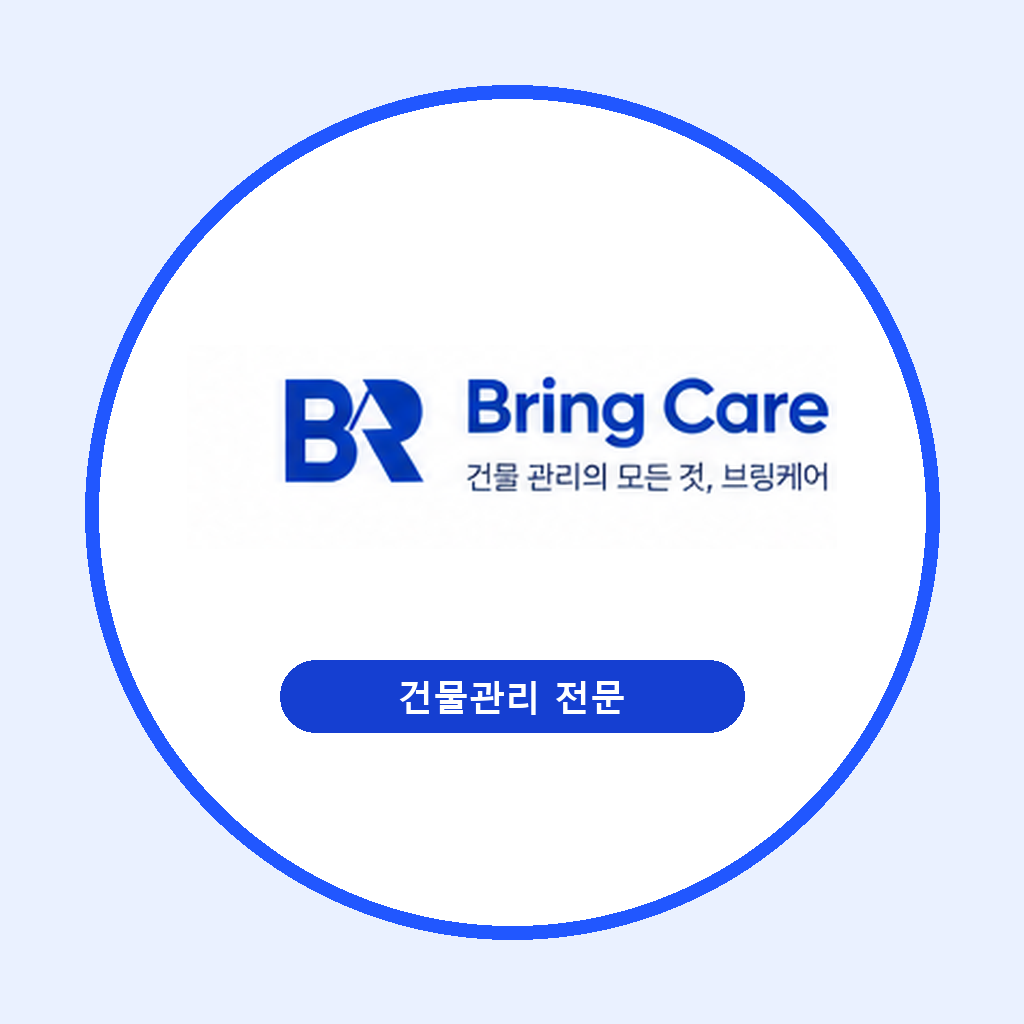
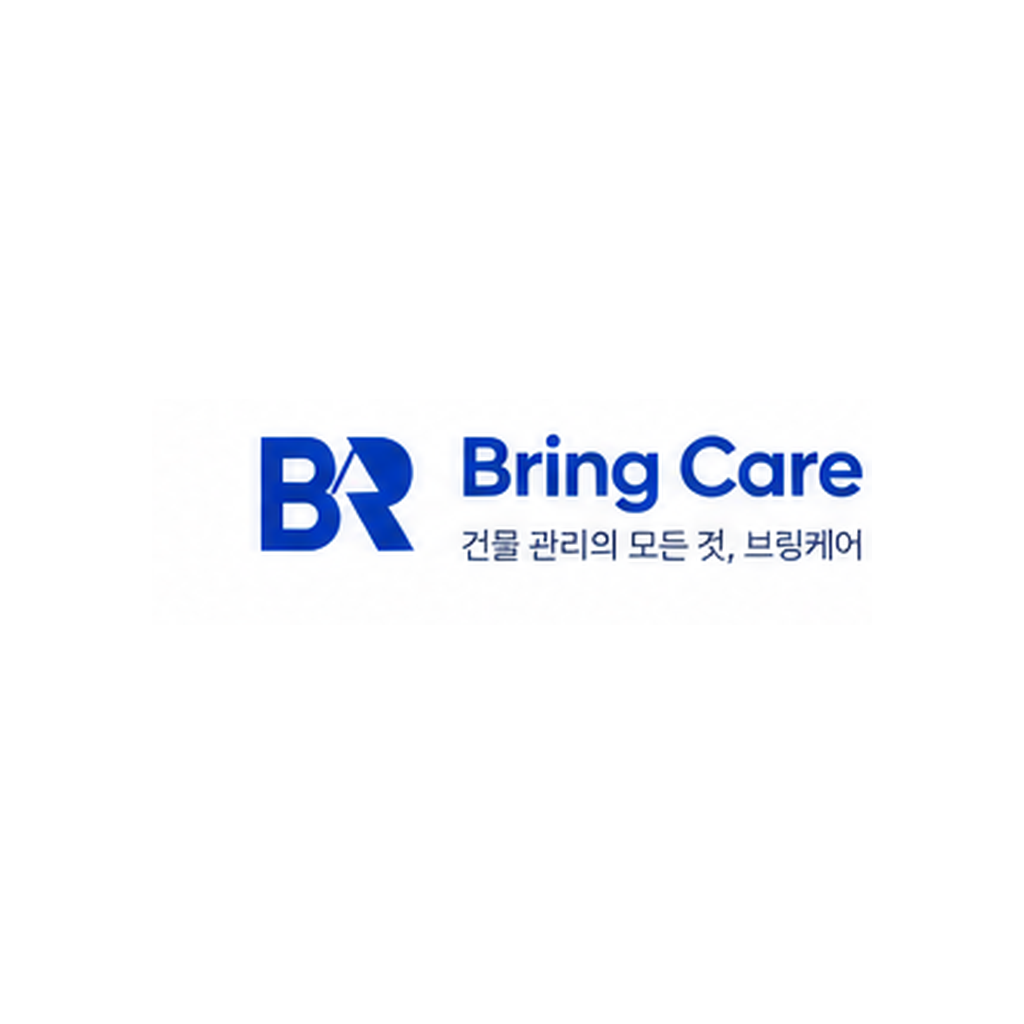
style: simplify Bringcare blog imagery

diff --git a/assets/bringcare-blog-home-2026-08-23/build_assets.py b/assets/bringcare-blog-home-2026-08-23/build_assets.py
@@ -67,34 +67,20 @@ def make_cover(size, out_name):
 
 def make_profile():
     size = 1024
-    im = Image.new("RGB", (size, size), PALE)
-    d = ImageDraw.Draw(im)
-    d.ellipse((85, 85, 939, 939), fill=WHITE, outline=COBALT, width=14)
+    im = Image.new("RGB", (size, size), WHITE)
     logo = logo_crop()
-    ratio = 650 / logo.width
-    logo = logo.resize((650, round(logo.height * ratio)), Image.Resampling.LANCZOS)
-    im.paste(logo, ((size - logo.width) // 2, 345))
-    d.rounded_rectangle((280, 660, 744, 732), radius=36, fill=BLUE)
-    d.text((512, 696), "건물관리 전문", font=font(36, True), anchor="mm", fill=WHITE)
+    ratio = 720 / logo.width
+    logo = logo.resize((720, round(logo.height * ratio)), Image.Resampling.LANCZOS)
+    im.paste(logo, ((size - logo.width) // 2, (size - logo.height) // 2))
     im.save(ROOT / "bringcare-profile-1024.png")
 
 
 def category(source, title, subtitle, out_name, accent):
     size = 1080
-    bg = cover_crop(Image.open(ROOT / source).convert("RGB"), (size, size))
-    bg = bg.filter(ImageFilter.GaussianBlur(.3)).convert("RGBA")
-    shade = Image.new("RGBA", (size, size), (0, 0, 0, 0))
-    sd = ImageDraw.Draw(shade)
-    sd.rectangle((0, 0, size, 250), fill=(7, 26, 61, 220))
-    sd.rectangle((0, 790, size, size), fill=(255, 255, 255, 238))
-    sd.rectangle((0, 250, 18, 790), fill=accent)
-    bg = Image.alpha_composite(bg, shade).convert("RGB")
-    d = ImageDraw.Draw(bg)
-    d.text((70, 75), title, font=font(66, True), fill=WHITE)
-    d.text((72, 165), subtitle, font=font(31), fill="#D7E4FF")
-    d.rounded_rectangle((70, 845, 235, 905), radius=30, fill=accent)
-    d.text((152, 875), "BRING CARE", font=font(23, True), anchor="mm", fill=WHITE)
-    d.text((70, 940), "관리의 기준을 기록합니다", font=font(38, True), fill=NAVY)
+    raw = Image.open(ROOT / source).convert("RGB")
+    if source == "source-field.png":
+        raw = raw.crop((0, int(raw.height * .16), raw.width, int(raw.height * .84)))
+    bg = cover_crop(raw, (size, size))
     bg.save(ROOT / out_name)
 
 
